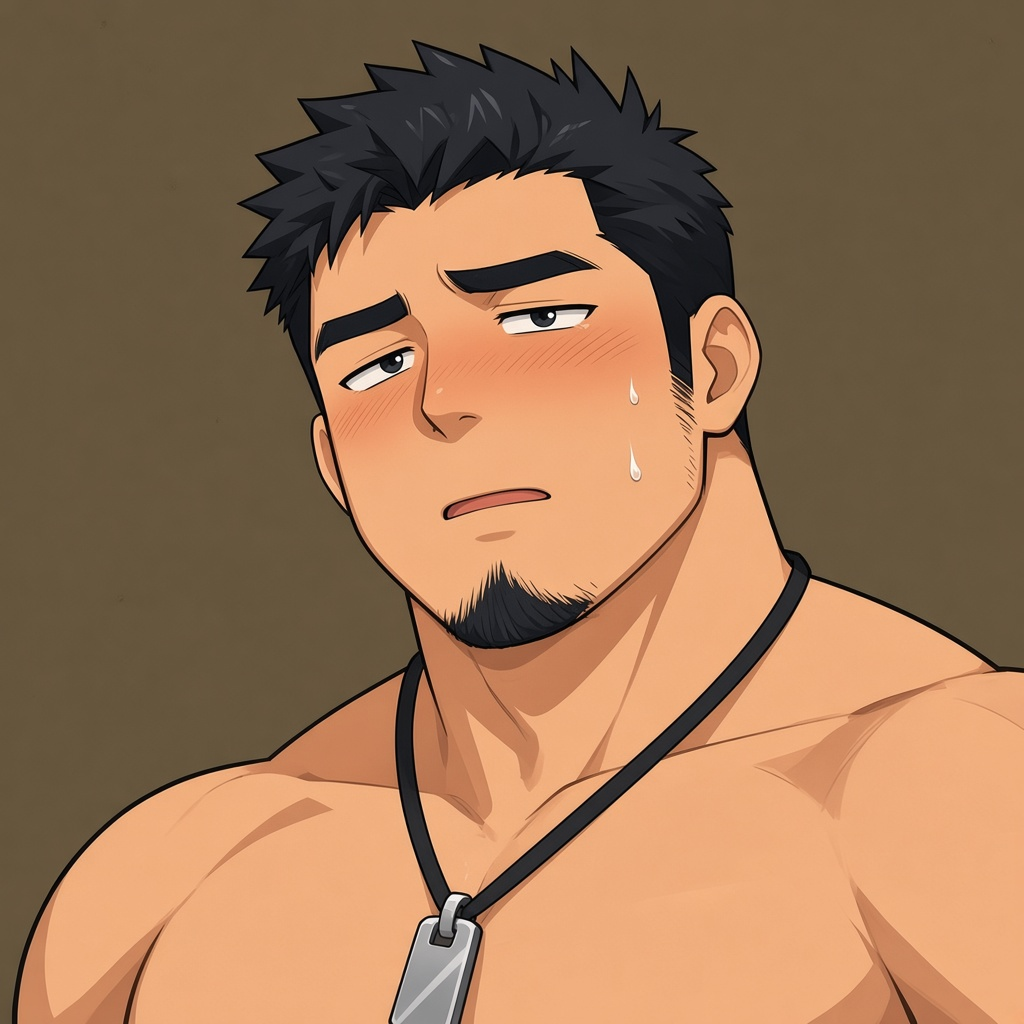
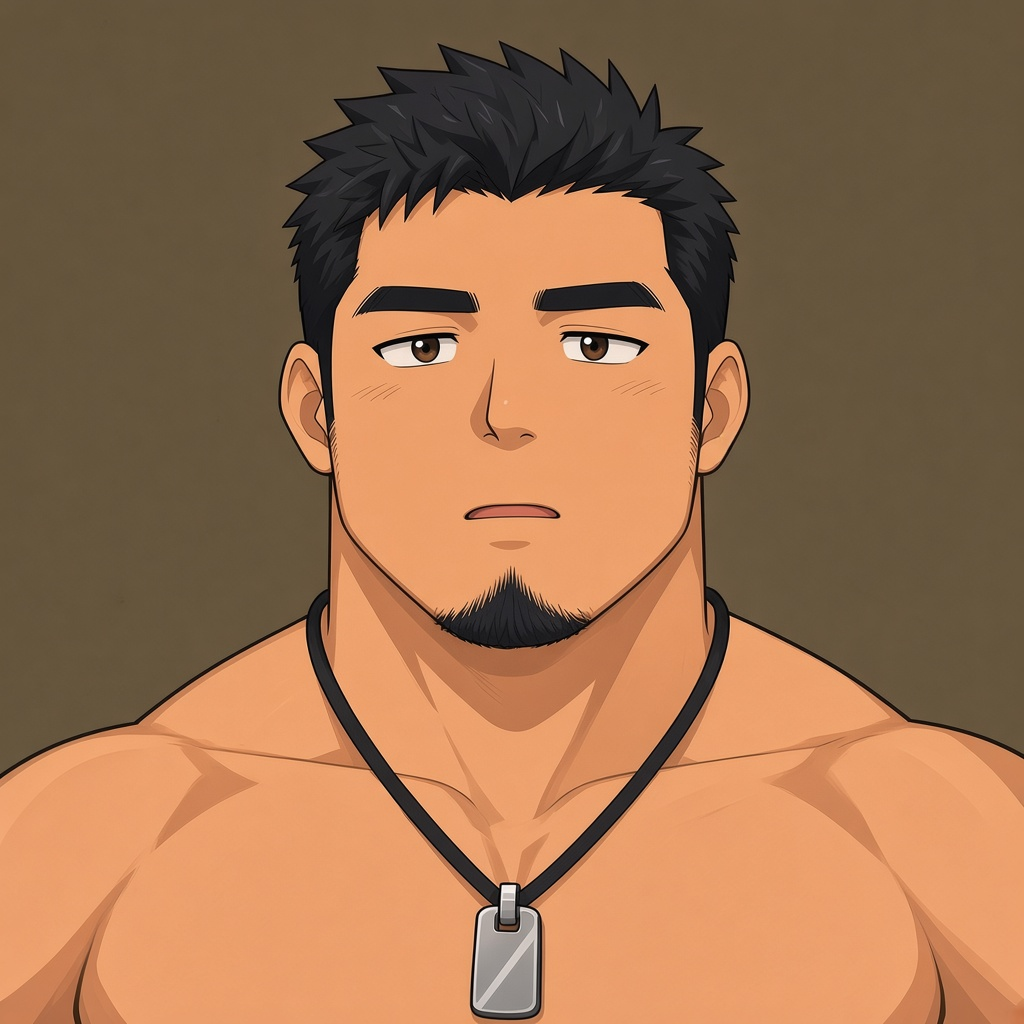
fix: 把平视的正面改成正视
原先标成正面的那列头是微侧的。正视改成脸正对镜头，表情的正视一并换上。

diff --git a/人物设定图/设定说明.md b/人物设定图/设定说明.md
@@ -4,7 +4,7 @@
 
 脸用选定的那张：眉骨重、眼往侧看、下巴一小撮山羊胡。头发按参考改成短的粗块，块大、轮廓粗、块里不再画细丝。脸加宽，颊更满，下颌和颊的外轮廓是一条圆滑的弧，不再收成瘦尖的下巴。全身上的下巴跟这版圆润轮廓走。身材高、腿长。下身平黑短裤。纹身和旁边的人不进设定。黑绳狗牌和颊上那滴汗只留在头部还原这一套里。
 
-已确认的正面是 `脸部选定/正面.jpg`。当前只收平视。方向和表情合在 `脸部选定平视.jpg`。脸宽和肩宽跟这张正面对齐。侧面下颌线用上一版：脸上是一条圆滑的弧，从耳前弯到下巴。下巴接到脖子的那条外轮廓不动。方向有正面、左45°、右45°、侧面、背面。表情有平视、侧目、沉脸、怒、惊讶，以及隐忍、喘息、眯眼、高潮、失神、坏笑、微喘、抿嘴、陶醉、吃惊、呼气。每种表情有正面、左45°、侧面。侧目就是确认过的那张正面：眼往侧看，嘴角轻笑。平视嘴是平的。沉脸嘴绷直。怒是眉压下去。惊讶张嘴睁眼。隐忍咬牙。喘息张嘴、瞳仁还在。眯眼是眼闭上。高潮眼白上翻。失神是眼松、嘴也松。坏笑嘴角歪、露一点牙。微喘只张开一条缝。抿嘴不露牙。陶醉半眯眼，带着软笑。吃惊眼睁圆、嘴只开一个小口。呼气嘴收得更小，嘴角往一边撇。仰视和俯视这轮不收。
+选定的脸还是 `脸部选定/正面.jpg`，那张头是微侧的，眼往旁边看，不当正视。当前只收平视。方向和表情合在 `脸部选定平视.jpg`。方向里的第一格改成正视：脸正对镜头，两耳都在，鼻子在中线，文件是 `脸部选定/正视.jpg`。脸宽和肩宽跟这张对齐。侧面下颌线用上一版：脸上是一条圆滑的弧，从耳前弯到下巴。下巴接到脖子的那条外轮廓不动。方向有正视、左45°、右45°、侧面、背面。表情有平视、侧目、沉脸、怒、惊讶，以及隐忍、喘息、眯眼、高潮、失神、坏笑、微喘、抿嘴、陶醉、吃惊、呼气。每种表情有正视、左45°、侧面。侧目是头仍正对镜头，眼往侧看，嘴角轻笑。平视嘴是平的。沉脸嘴绷直。怒是眉压下去。惊讶张嘴睁眼。隐忍咬牙。喘息张嘴、瞳仁还在。眯眼是眼闭上。高潮眼白上翻。失神是眼松、嘴也松。坏笑嘴角歪、露一点牙。微喘只张开一条缝。抿嘴不露牙。陶醉半眯眼，带着软笑。吃惊眼睁圆、嘴只开一个小口。呼气嘴收得更小，嘴角往一边撇。仰视和俯视这轮不收。
 
 ## 识别点
 
@@ -17,8 +17,9 @@
 - `正面参考.jpg`：选定的脸
 - `正面全身.jpg`：从转面取出的正面
 - `头部特写.jpg`：头部特写
-- `脸部选定/正面.jpg`：确认过的正面
-- `脸部选定平视.jpg`：当前这套。平视的方向和全部表情合在一张里
+- `脸部选定/正面.jpg`：选定的脸。头微侧，眼往旁边看，不是正视
+- `脸部选定/正视.jpg`：脸正对镜头
+- `脸部选定平视.jpg`：当前这套。平视的方向和全部表情合在一张里。方向第一格是正视
 - `脸部选定视角.jpg`：同一张脸。正面、左45°、右45°、侧面、背面，各有仰视、平视、俯视。仰视俯视这轮不收进 `脸部选定平视.jpg`
 - `脸部选定表情.jpg`：平视镜头。平视、侧目、沉脸、怒、惊讶。每种有正面、左45°、侧面。侧目用确认过的那张正面
 - `脸部选定仰视表情.jpg`：仰视镜头，同一套表情
